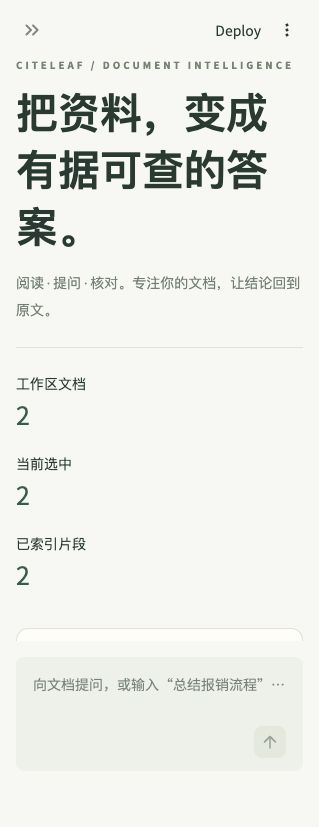
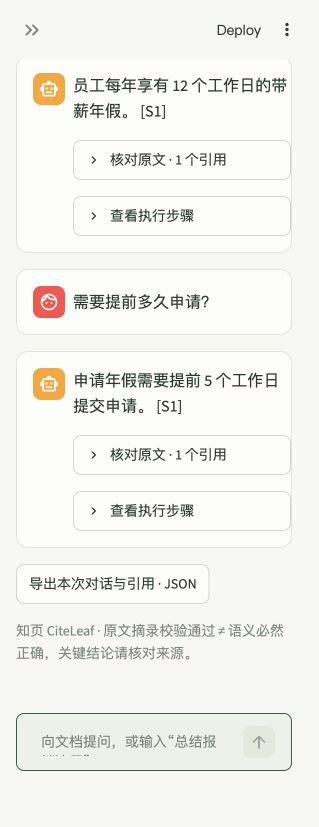
docs: add verified conversation demo

diff --git a/README.md b/README.md
@@ -6,6 +6,8 @@
 
 一个面向中文 PDF / TXT 的文档问答 Agent：上传资料，在所选文档内提问、继续追问，或生成全文及指定主题摘要。每条结论携带引用和经过逐字校验的原文摘录，文档没有依据时明确说明。
 
+<img src="docs/demo.png" alt="窄窗口中的真实问答和多轮追问演示" width="320" />
+
 “Cite”表示引用，“Leaf”表示书页。项目聚焦文档证据，采用 6 个业务模块的单体架构，便于理解、复现与扩展。
 
 ## 快速开始
